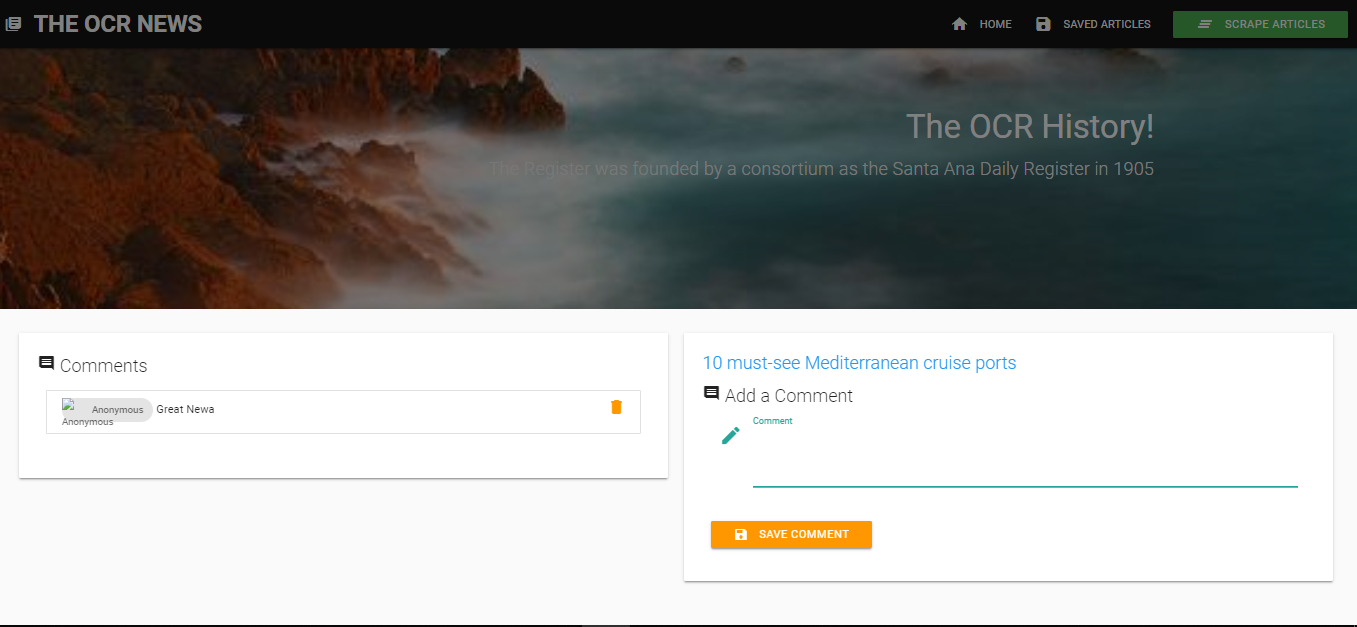
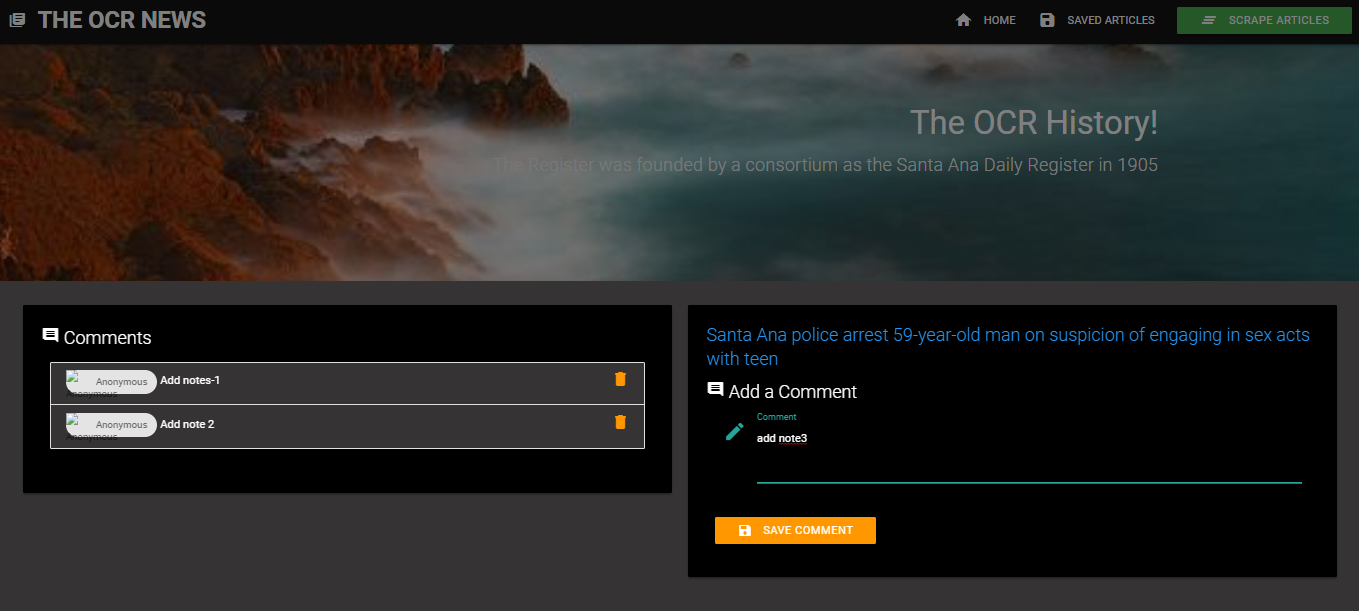
style.css cards styling update

diff --git a/public/css/styles.css b/public/css/styles.css
@@ -10,7 +10,18 @@ body {
   max-height: 70%;
 }
 
+.card{
+  background-color: black;
+  color: white;
+}
 
+.modal, .bottom-sheet, .open{
+  background-color: rgb(53, 51, 51) !important;
+}
+
+.collection,.collection-item{
+background-color: rgb(53, 51, 51) !important;
+}
 #toast-container {
   top: 10% !important;
   right: auto !important;
